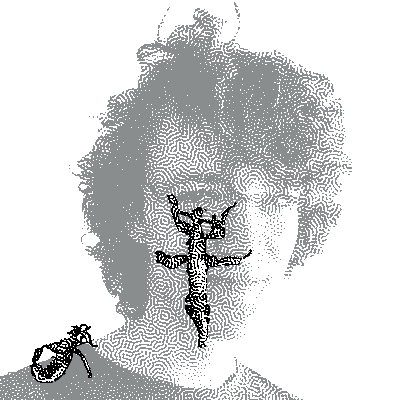
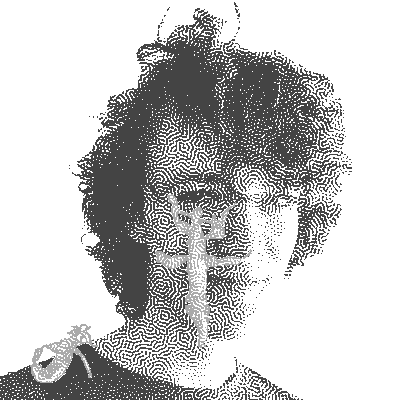
gave up on sepia

diff --git a/main.css b/main.css
@@ -1,24 +1,33 @@
 html {
-    background-color: #d9c9a9;
-    color: #29251e;
+    background-color: #FFF;
+    color: #000;
     font-size: 100%;
     /* max-width: 60em; */
 	margin: 0 auto auto 1.5em;
 }
 @media (prefers-color-scheme: dark) {
     html, a {
-        background-color: #29251e;
-        color: #d9c9a9 !important;
+        background-color: #000;
+        color: #FFF !important;
     }
+    img.dodark{
+        filter: invert();
+    }
+    .sepia {
+        filter: invert() sepia(.33) !important;
+    }
+}
+.sepia {
+    filter: sepia(.33);
 }
 body {
     /* padding-top: 1em; */
     font-size: 1.1em;
     /* max-width: 50em; */
-    max-width: calc(100% - 1em);
+    max-width: calc(100% - 4em);
 }
 header pre {
-    color:firebrick;
+    color:#990000;
 }
 pre {
     font-size: 1em;
@@ -44,47 +53,43 @@ main img {
     padding: 0.75em 0 0.75em 0;
     /* image-rendering: pixelated; */
 }
-.sepia {
-    filter: invert() brightness(0.33) sepia(1);
-}
 footer{
     text-align: center;
 }
 /* TODO svg links */
 footer img{
-    stroke: olive;
+    stroke: #999933;
     height: 2em;
 }
-/* LINKS */
 a, a:visited {
-    color: #29251e;
+    color: #000;
     text-decoration-line: underline;
     text-decoration-style: solid;
     text-decoration-thickness: 0.1em;
-    text-decoration-color: olive;
+    text-decoration-color: #999933;
 }
 main a:not([target="_blank"], [href*="#"])::before, .dir::after, h1:not([class="title"])::before {
     content: "/";
-    color: olive;
+    color: #999933;
     text-decoration: none;
     font-family: Courier, monospace;
 }
 a:hover {
-    color: olive;
+    color: #999933;
     text-decoration: 0.05em underline wavy;
     }
 a[target="_blank"]:hover{
-    color: firebrick;
+    color: #990000;
     text-decoration: 0.05em underline wavy;
     }
 a[target="_blank"]{
     text-decoration-style: dotted;
     text-decoration-thickness: 0.12em;
-    text-decoration-color: firebrick;
+    text-decoration-color: #990000;
     }
 a[target="_blank"]::after {
     content: "~" / ""; 
-    color: firebrick;
+    color: #990000;
     text-decoration: none;
     }   
 header a, header a:hover {
@@ -112,7 +117,7 @@ ul li, ol li {
     /* list-style-position: outside; */
 }
 ul li::before{
-    color: olive;
+    color: #999933;
     content:"* " / "";
     font-family: Courier, monospace;
 }
@@ -121,24 +126,24 @@ nav ol{
     list-style-type: none;
 }
 .internal li::before {
-    color: olive;
+    color: #999933;
 }
 .links li::before {
-    color: firebrick;
+    color: #990000;
 }
 main ul, main ol { 
     line-height: 1.25em; 
 }
 nav ol li::before, h2::before, h3::before {
     content: "# " / "";
-    color: olive;
+    color: #999933;
     font-weight: bold;
     text-decoration: none;
     font-family: Courier, monospace;
 }
 hr {
     border: none;
-    color: firebrick;
+    color: #990000;
     overflow: visible;
     text-align: center;
     height: 0.125em;

diff --git a/about.html b/about.html
@@ -19,7 +19,7 @@
 </pre></a></figure></header>
 <main>
     <h1>about</h1>
-        <p>I'm a trans dyke who loves making stuff with my hands and my puter. I'm living on unceded Worimi and Awabakal Country, Muloobinba/"Newcastle" on the east coast of Australia.</p>
+        <p>I'm a trans dyke who loves making stuff with my hands and my computer. I'm living on unceded Worimi and Awabakal Country, Muloobinba/"Newcastle" on the east coast of Australia.</p>
         <p>see also what I'm up to <a href="now.html">now</a>.</p>
         <figure>
             <img src="works/halloween-2023.png" alt="black and white dithered image of two girlfriends"></img>
@@ -29,7 +29,7 @@
             <figure>
                 <img src="refs/puter.png" alt="an image of a kitten on a laptop with the caption: i remain ambivalent about my puter. it contains multitudes. friends. enemies. love. hate. to reduce it to one or the other is an exercise in foolishness.">
             </figure>
-            <p>In the pursuit of doing cool things with my computer whilst minimising my impact on the planet, I'm inspired by subcultures like ditherpunk, demoscene and <a target="_blank" href="https://permacomputing.net/">permacomputing</a> in particular.</p>
+            <p>In the pursuit of doing cool things with my 'puter whilst minimising my impact on the planet, I'm inspired by subcultures like ditherpunk, demoscene and <a target="_blank" href="https://permacomputing.net/">permacomputing</a> in particular.</p>
             <!-- <p>always trying to work in the open</p> -->
         
         <h2 id="support">support me</h2>

diff --git a/index.html b/index.html
@@ -42,7 +42,7 @@
         <!-- <li><a href="./ways/" class="dir">ways</a></li> -->
     </ul></nav>
     <figure aria-labelleddby="figcaption">
-        <img class="sepia" width="400" height="400" src="works/bugface-transparent.png" alt="A portrait of a person with two stick insects, one in the middle of their face and one on their shoulder. The image is dithered using organic Turing Patterns.">
+        <img class="dodark" width="400" height="400" src="works/bugface.png" alt="A portrait of a person with two stick insects, one in the middle of their face and one on their shoulder. The image is dithered using organic Turing Patterns.">
         <figcaption>me n the girls, summer 2023.</figcaption>
     <!--r.i.p. eris and enyo <3-->
     </figure>

diff --git a/lab.html b/lab.html
@@ -25,6 +25,9 @@
         /* ::before{
             aria-
         } */
+        .c1{
+
+        }
     </style>
     <h1>the lab</h1>
     <!-- expanding text from future ruins -->
@@ -37,6 +40,13 @@
         <figcaption>embedded <a href="/tools/image_data.html">image data</a> with a link to the original</figcaption> 
     </figure>
     <a href="#h2"><h2  id="h2">heading linking to itself</h2></a>
+
+    <div class="c0">
+        
+    </div>
+    <div class="c1">
+
+    </div>
     <!-- <section id="badges">
         badges for my site, friends sites and webrings
         </section> -->

diff --git a/style.html b/style.html
@@ -21,6 +21,14 @@
   <main>
       <h1>heading 1</h1>
       <p>text under h1</p>
+
+      <div class="sepia">
+        sepia test
+        <p style="color:#000">black</p>
+        <p style="color:#000">grey</p>
+      </div>
+      <p class="sepia">sepia text</p>
+
       <pre>
           pre
           f ormatte d 
